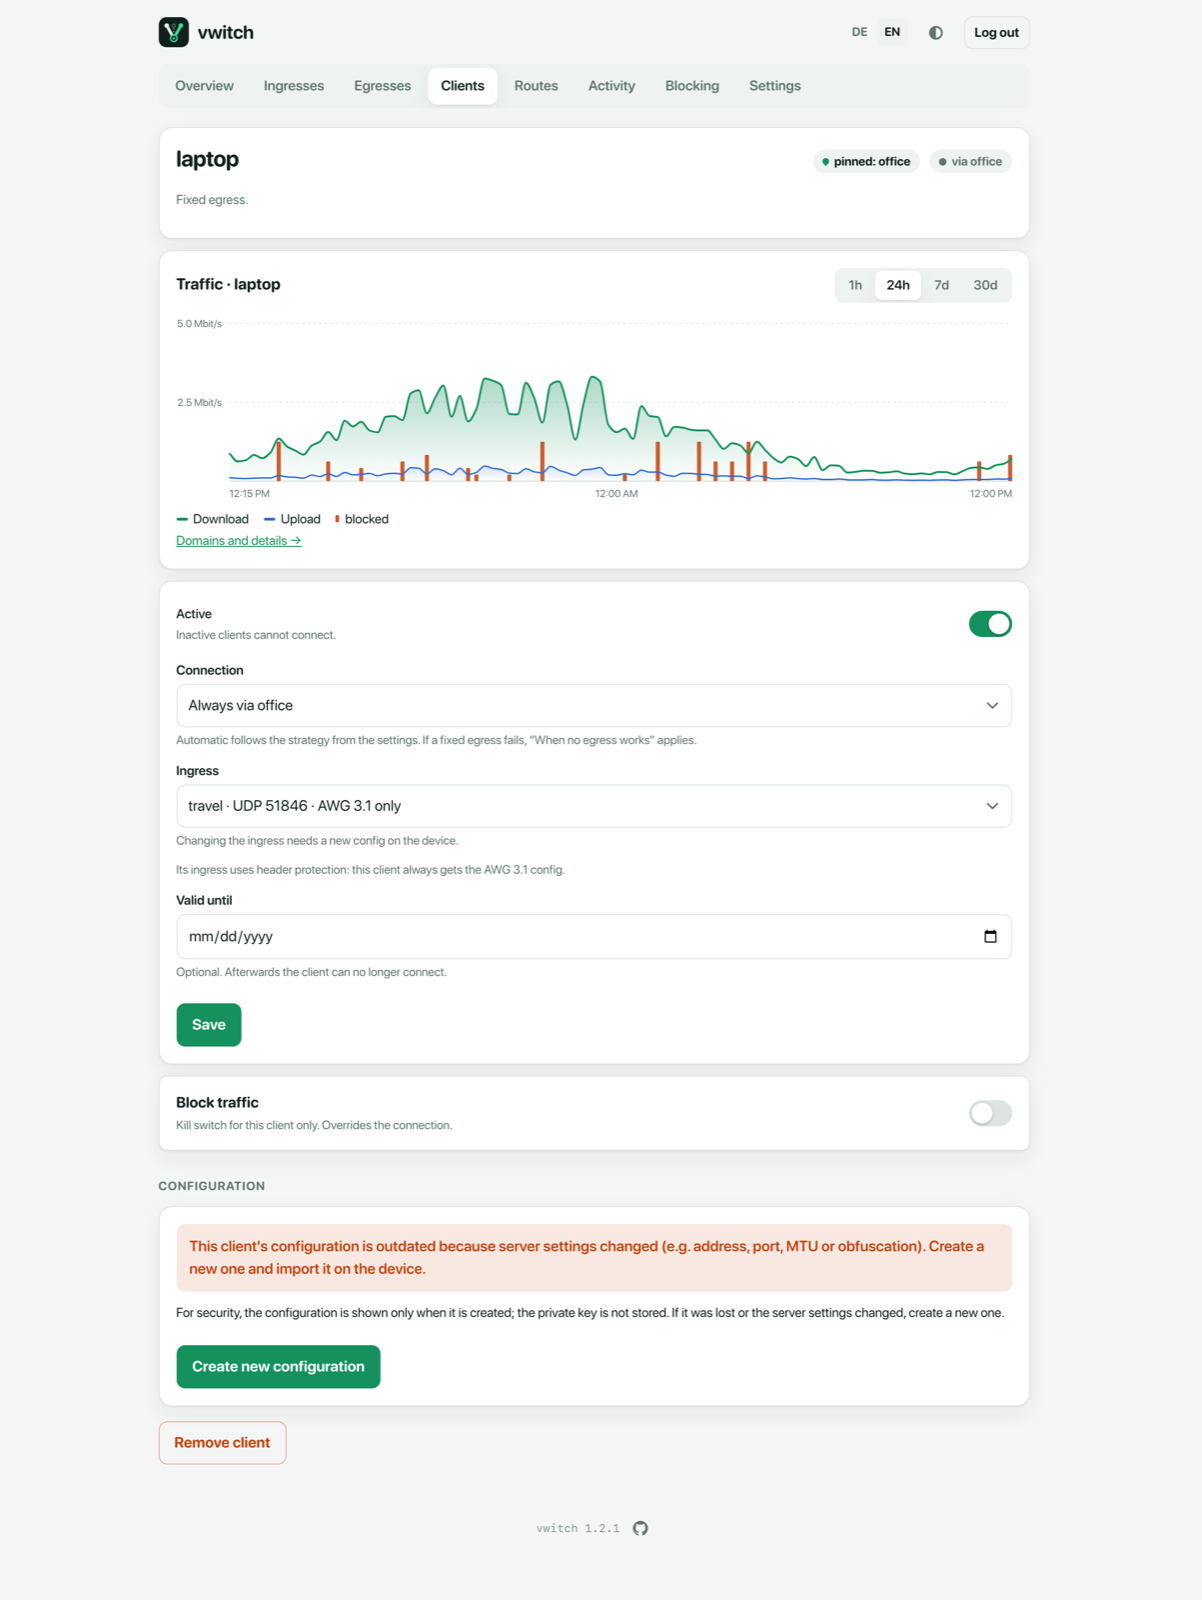
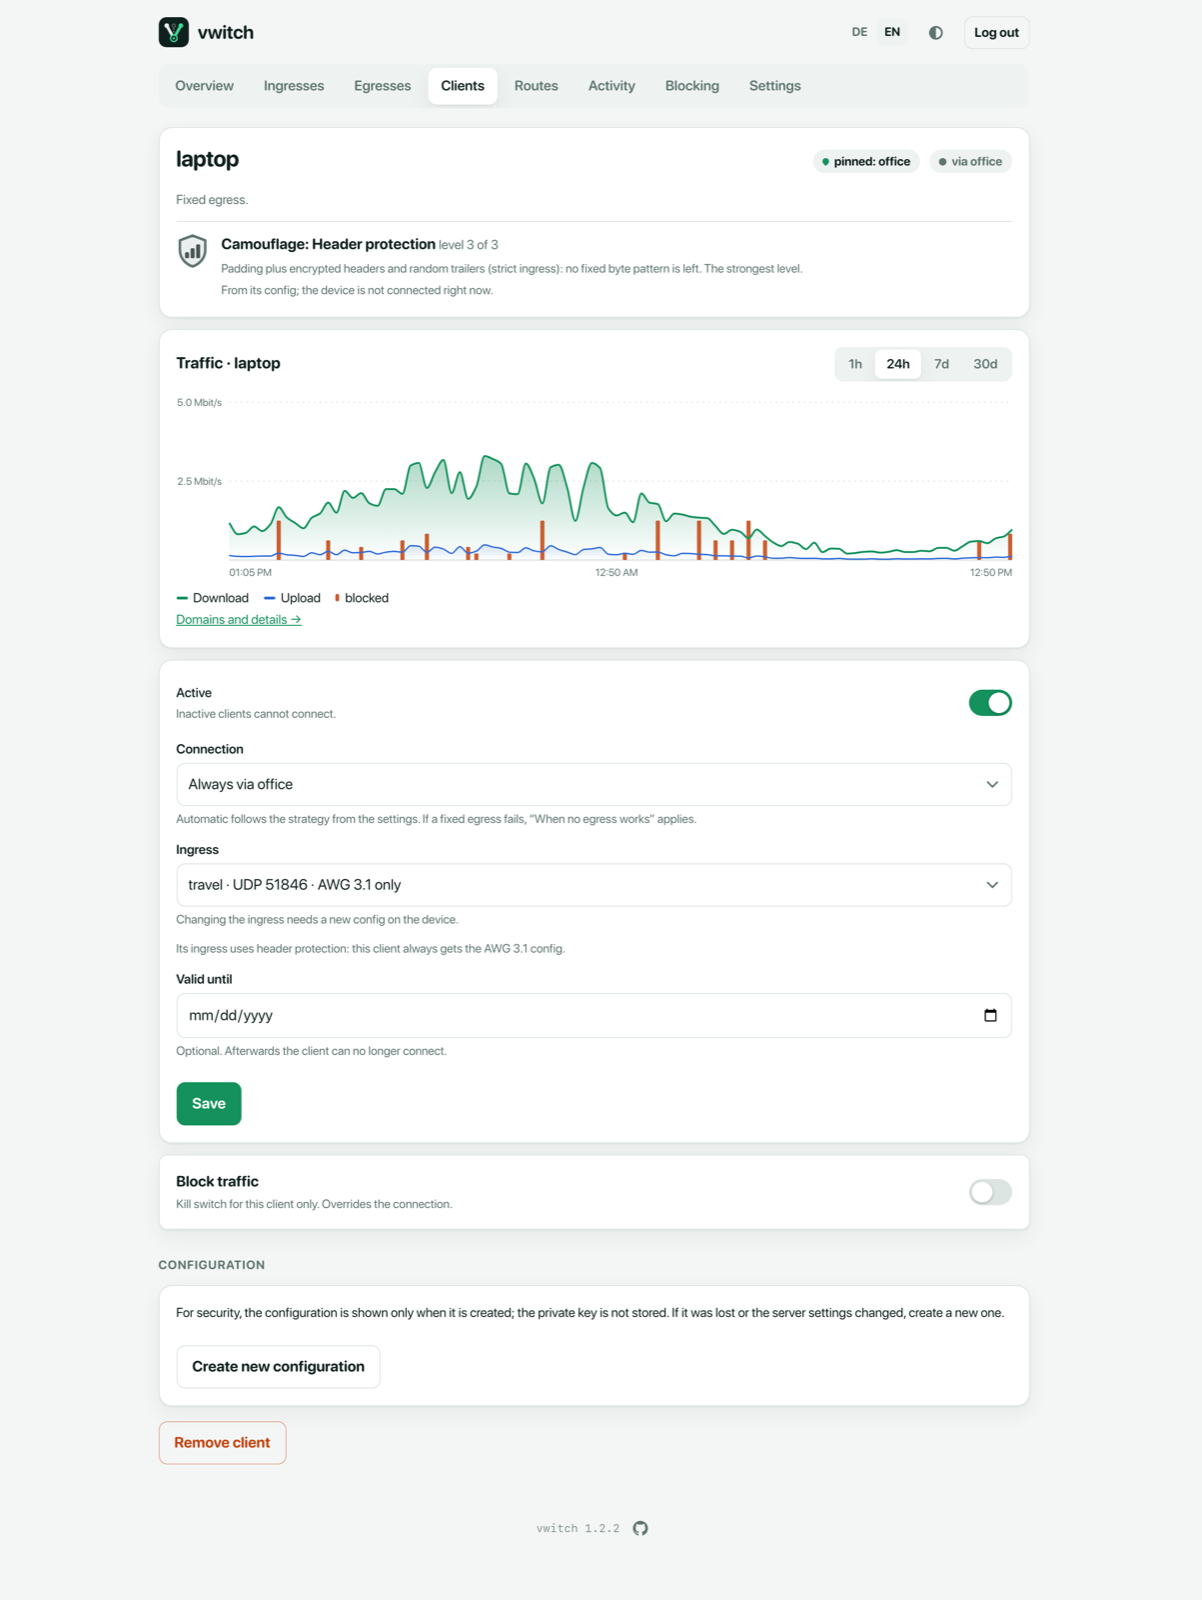
fix: show each client's camouflage level (#12)
* fix: show each client's camouflage level

A shield with one to three bars next to each client in the list, and a
short explanation on the client page: basic AWG camouflage, plus content
padding (AWG 3.1 on a padded ingress), or header protection (strict
ingress). The level follows the issued config; an outdated or offline
device is pointed out. The status JSON carries it as "camouflage".

* fix: clearer bars in the shield of an offline client

* docs: camouflage level per client

diff --git a/web/templates/layout.html b/web/templates/layout.html
@@ -95,3 +95,13 @@
 {{if hasPrefix $r "egress:"}}<span class="pill pin" title="{{t $l "client.pinned.hint" $c.Fixed}}">{{t $l "client.pinned" $c.Fixed}}</span>
 {{else if hasPrefix $r "strategy:"}}<span class="pill pin" title="{{t $l "client.pinned.strategy.hint"}}">{{t $l (print "strategy." $c.Strategy)}}</span>{{end}}
 {{end}}
+
+{{/* camo: a shield with 1-3 bars for a client's camouflage level (withLang lang client) */}}
+{{define "camo"}}{{$l := index . 0}}{{$c := index . 1}}{{$n := $c.Camouflage}}
+<svg class="camo{{if not $c.Online}} idle{{end}}" viewBox="0 0 16 18" width="16" height="18" role="img"
+  aria-label="{{t $l "camo.title"}}: {{t $l (print "camo." $n)}}"><title>{{t $l "camo.title"}}: {{t $l (print "camo." $n)}} ({{t $l "camo.level" $n}})</title>
+  <path class="shield" d="M8 1.2 14.4 3.6v4.9c0 4-2.8 7-6.4 8.3C4.4 15.5 1.6 12.5 1.6 8.5V3.6Z"/>
+  <rect x="4.2" y="9.6" width="2" height="3" rx=".6"{{if ge $n 1}} class="on"{{end}}/>
+  <rect x="7" y="7.6" width="2" height="5" rx=".6"{{if ge $n 2}} class="on"{{end}}/>
+  <rect x="9.8" y="5.6" width="2" height="7" rx=".6"{{if ge $n 3}} class="on"{{end}}/>
+</svg>{{end}}

diff --git a/web/static/vwitch.css b/web/static/vwitch.css
@@ -452,3 +452,16 @@ button.menu-item:disabled { opacity: 1; color: var(--ok); font-weight: 700; }
 /* blocked lookups and connections in the traffic charts */
 [data-chart] .blk { fill: var(--bad); opacity: .85; }
 .legend .key.blk { background: var(--bad); margin-left: 10px; height: 8px; width: 4px; }
+/* camouflage level: a shield with 1-3 bars */
+.camo { color: var(--accent); flex: none; vertical-align: -3px; }
+.camo .shield { fill: color-mix(in srgb, currentColor 12%, transparent); stroke: currentColor; stroke-width: 1.3; stroke-linejoin: round; }
+.camo rect { fill: currentColor; opacity: .22; }
+.camo rect.on { opacity: 1; }
+.camo.idle { color: var(--muted); }
+.camo.idle rect { opacity: .15; }
+.camo.idle rect.on { fill: var(--text); opacity: .75; }
+h3.with-camo { display: inline-flex; align-items: center; gap: 8px; }
+.camo-info { display: flex; gap: 14px; align-items: flex-start; padding-top: 12px; border-top: 1px solid var(--line); }
+.camo-big .camo { width: 34px; height: 38px; }
+.camo-info .hint { margin: 4px 0 0; }
+.hint.warn { color: var(--warn); }

diff --git a/web/templates/client.html b/web/templates/client.html
@@ -6,6 +6,14 @@
     <span class="pill">{{exitLabel $l $c.Exit $c.Egress}}</span>
   </div>
   {{with reasonText $l $c.Reason}}<p class="muted small">{{.}}</p>{{end}}
+  <div class="camo-info">
+    <span class="camo-big">{{template "camo" (withLang $l $c)}}</span>
+    <div>
+      <b>{{t $l "camo.title"}}: {{t $l (print "camo." $c.Camouflage)}}</b> <span class="muted small nowrap">{{t $l "camo.level" $c.Camouflage}}</span>
+      <p class="hint">{{t $l (print "camo." $c.Camouflage ".desc")}}{{if lt $c.Camouflage 3}} {{t $l (print "camo." $c.Camouflage ".more")}}{{end}}</p>
+      {{if $c.Outdated}}<p class="hint warn">{{t $l "camo.outdated"}}</p>{{else if not $c.Online}}<p class="hint">{{t $l "camo.offline"}}</p>{{end}}
+    </div>
+  </div>
 </div>
 
 <section class="card stack chart-card">{{template "traffic-chart" (list $l "24h" $c.Name "")}}<a class="small" href="/activity?range=24h&client={{$c.Name}}">{{t $l "act.client_more"}}</a></section>

diff --git a/web/templates/clients.html b/web/templates/clients.html
@@ -4,7 +4,7 @@
   {{range .Data.Status.Clients}}
     <li class="row">
       <div>
-        <h3><a href="/clients/{{.Name}}">{{.Name}}</a></h3>
+        <h3 class="with-camo"><a href="/clients/{{.Name}}">{{.Name}}</a>{{template "camo" (withLang $l .)}}</h3>
         <p class="muted small mono">{{.Address}}{{if .Expires}} · {{t $l "client.expires"}} {{(lastDay .Expires).Format "02.01.2006"}}{{end}}</p>
       </div>
       <span class="spacer"></span>

diff --git a/internal/web/render_test.go b/internal/web/render_test.go
@@ -18,7 +18,7 @@ import (
 // TestAllPagesRender executes every template with realistic data in all
 // languages, catching template errors and missing translations at build time.
 // untranslated finds i18n keys (e.g. "egress.add") that leaked into a page.
-var untranslated = regexp.MustCompile(`\b(nav|egress|ingress|settings|dash|client|route|block|act)\.[a-z_]+`)
+var untranslated = regexp.MustCompile(`\b(nav|egress|ingress|settings|dash|client|route|block|act|camo)\.[a-z_0-9]+`)
 
 func TestAllPagesRender(t *testing.T) {
 	r, err := NewRenderer()
@@ -33,7 +33,7 @@ func TestAllPagesRender(t *testing.T) {
 	st := daemon.Status{
 		Egresses: []daemon.EgressStatus{{Name: "home", Enabled: true, Healthy: true, HandshakeAge: 12, LatencyMs: 23, RxRate: 1500}},
 		Clients: []daemon.ClientStatus{{Name: "phone", Address: "10.8.0.2", Active: true, Online: true, Exit: "egress", Egress: "home", Expires: &exp,
-			Strategy: "fixed", Fixed: "home"}},
+			Strategy: "fixed", Fixed: "home", Camouflage: 2}},
 		Events: []state.Event{{Time: time.Now(), Key: "switched", Args: []string{"phone", "@exit.block", "home", "@reason.failover"}}},
 		Routes: []daemon.RouteStatus{{Name: "google", Egress: "home", Domains: []string{"google.de", "youtube.com"}, Active: true, Learned: 3}},
 	}
@@ -64,7 +64,7 @@ func TestAllPagesRender(t *testing.T) {
 		w := httptest.NewRecorder()
 		r.Page(w, "client", Page{Lang: lang, Admin: true, Data: clientPage{Client: st.Clients[0],
 			Egresses: cfg.Egresses, Strategy: "failover", AllowDirect: true, Ingresses: cfg.Ingresses}})
-		if b := w.Body.String(); w.Code != 200 || !strings.Contains(b, "phone") || !strings.Contains(b, `name="ingress"`) || !strings.Contains(b, "pill pin") || untranslated.MatchString(b) {
+		if b := w.Body.String(); w.Code != 200 || !strings.Contains(b, "phone") || !strings.Contains(b, `name="ingress"`) || !strings.Contains(b, "pill pin") || !strings.Contains(b, `class="camo"`) || untranslated.MatchString(b) {
 			t.Fatalf("client page: %s", w.Body.String())
 		}
 		w = httptest.NewRecorder()

diff --git a/internal/daemon/status.go b/internal/daemon/status.go
@@ -77,6 +77,10 @@ type ClientStatus struct {
 	AWG3         bool       `json:"awg3,omitempty"`     // config carries the AWG 3.1 lines
 	Ingress      string     `json:"ingress"`
 	Strict       bool       `json:"strict,omitempty"` // its ingress uses header protection
+	// Camouflage is what its config makes the device do against traffic
+	// analysis: 1 AmneziaWG basics, 2 plus random padding, 3 plus header
+	// protection.
+	Camouflage int `json:"camouflage"`
 	state.ClientSwitch
 }
 
@@ -115,6 +119,7 @@ func (d *Daemon) buildStatus(c *config.Config, sw state.Switches, now time.Time)
 			Outdated: cl.Issued != "" && cl.Issued != clients.Fingerprint(c, cl), ClientSwitch: sw.Clients[cl.Name],
 			Ingress: c.ClientIngress(cl).Name, Strict: c.ClientIngress(cl).AWG.Strict()}
 		cs.AWG3 = cl.AWG3 || cs.Strict
+		cs.Camouflage = camouflage(c.ClientIngress(cl).AWG, cl.AWG3)
 		if p, ok := peers[cl.PublicKey]; ok {
 			if a := health.HandshakeAge(now, p.LastHandshake); a >= 0 {
 				cs.HandshakeAge = a.Seconds()
@@ -188,4 +193,21 @@ func (d *Daemon) ClientByAddr(addr string) (ClientStatus, bool) {
 		}
 	}
 	return ClientStatus{}, false
+}
+
+// camouflage levels, see ClientStatus.Camouflage
+const (
+	CamouflageBasic   = 1
+	CamouflagePadding = 2
+	CamouflageHeaders = 3
+)
+
+func camouflage(a config.AWGParams, awg3 bool) int {
+	switch {
+	case a.Strict():
+		return CamouflageHeaders
+	case awg3 && a.ContentPadding != "":
+		return CamouflagePadding
+	}
+	return CamouflageBasic
 }

diff --git a/internal/daemon/daemon_test.go b/internal/daemon/daemon_test.go
@@ -630,3 +630,18 @@ func TestNewClientsAWG3Default(t *testing.T) {
 		t.Fatal("default off ignored")
 	}
 }
+
+func TestCamouflage(t *testing.T) {
+	a := config.AWGParams{}
+	if camouflage(a, true) != CamouflageBasic {
+		t.Fatal("AWG 3.1 without padding on the ingress is basic")
+	}
+	a.ContentPadding = "8-96"
+	if camouflage(a, false) != CamouflageBasic || camouflage(a, true) != CamouflagePadding {
+		t.Fatal("padding needs the client's AWG 3.1 config")
+	}
+	a.HeaderProtectionKey = "k"
+	if camouflage(a, false) != CamouflageHeaders {
+		t.Fatal("strict ingress")
+	}
+}

diff --git a/docs/clients.md b/docs/clients.md
@@ -17,6 +17,10 @@ no egress works* applies). A client with its own strategy shows the name of
 that strategy instead. Clients without a pin follow the strategy from the
 [settings](settings.md).
 
+The small shield next to each name shows the client's
+[camouflage level](#camouflage-level) with one to three bars. It is coloured
+while the client is online and grey otherwise; hover it to see the level.
+
 ## Add a client
 
 Under **Add client**:
@@ -52,7 +56,8 @@ Click a client to open its page:
 ![Client page](images/client.png)
 
 - **Top**: where its traffic goes right now and why (for example *First
-  working egress in the order*).
+  working egress in the order*), and its
+  [camouflage level](#camouflage-level).
 - **Traffic**: its download and upload over time, with its blocked lookups
   and connections as red bars. *Domains and details* opens
   [Activity](activity.md) filtered to this client.
@@ -67,6 +72,30 @@ Click a client to open its page:
 - **Valid until**: change or remove the expiry date.
 - **Block traffic**: a kill switch for this client only. It overrides the
   connection choice.
+
+## Camouflage level
+
+Each client has a camouflage level from 1 to 3. It tells you how hard the
+client's traffic is to recognise as a VPN for networks that try to block VPNs.
+The client page shows it with a large shield, the level name, a short
+explanation and a tip for reaching the next level.
+
+| Level | Name | What the client's traffic looks like | How to get there |
+| --- | --- | --- | --- |
+| 1 | **Basic** | Junk packets before the handshake, padded handshakes and header values of its own. Common WireGuard filters do not recognise it. | Every client has at least this. |
+| 2 | **Padding** | Like *Basic*, plus a random length for every data packet, so packet sizes give nothing away. | Turn on **AmneziaWG 3.1** for the client, with **Random padding** on its [ingress](ingresses.md#change-an-ingress). Needs a new config. |
+| 3 | **Header protection** | Like *Padding*, plus encrypted headers and random trailers: no fixed byte pattern is left. The strongest level. | Move the client to an *AWG 3.1 only* [ingress](ingresses.md#camouflage), if its app supports it. Needs a new config. |
+
+The level comes from the config vwitch issued to the client, not from
+watching its traffic. So:
+
+- If the device still uses an **older config**, the page warns that the shown
+  level applies only once the new config is imported.
+- If the device is **offline**, the page notes that the level is taken from
+  its config.
+
+Scripts find the level in `vwitch status --json` as the field `camouflage`
+(1–3) of each client.
 
 ## Configuration: lost or outdated
 

diff --git a/docs/README.md b/docs/README.md
@@ -21,7 +21,7 @@ screenshots and the matching commands.
 | 📊 | **[Overview](overview.md)** | See at a glance whether everything works. Kill switch, direct mode, traffic, events, security check. |
 | 🚪 | **[Ingresses](ingresses.md)** | Entry points for your devices: ports, camouflage, isolation for guests. |
 | 🌍 | **[Egresses](egresses.md)** | Exits: add WireGuard tunnels, set their order, see their health. |
-| 📱 | **[Clients](clients.md)** | Add devices, show their config as QR code, pin them to an exit, block or remove them. |
+| 📱 | **[Clients](clients.md)** | Add devices, show their config as QR code, see their camouflage level, pin them to an exit, block or remove them. |
 | 🔀 | **[Routes](routes.md)** | Send certain websites always through one exit. |
 | 📈 | **[Activity](activity.md)** | Traffic per device and the websites they look up. |
 | 🚫 | **[Blocking](blocking.md)** | Block websites and countries, see what was blocked. |
